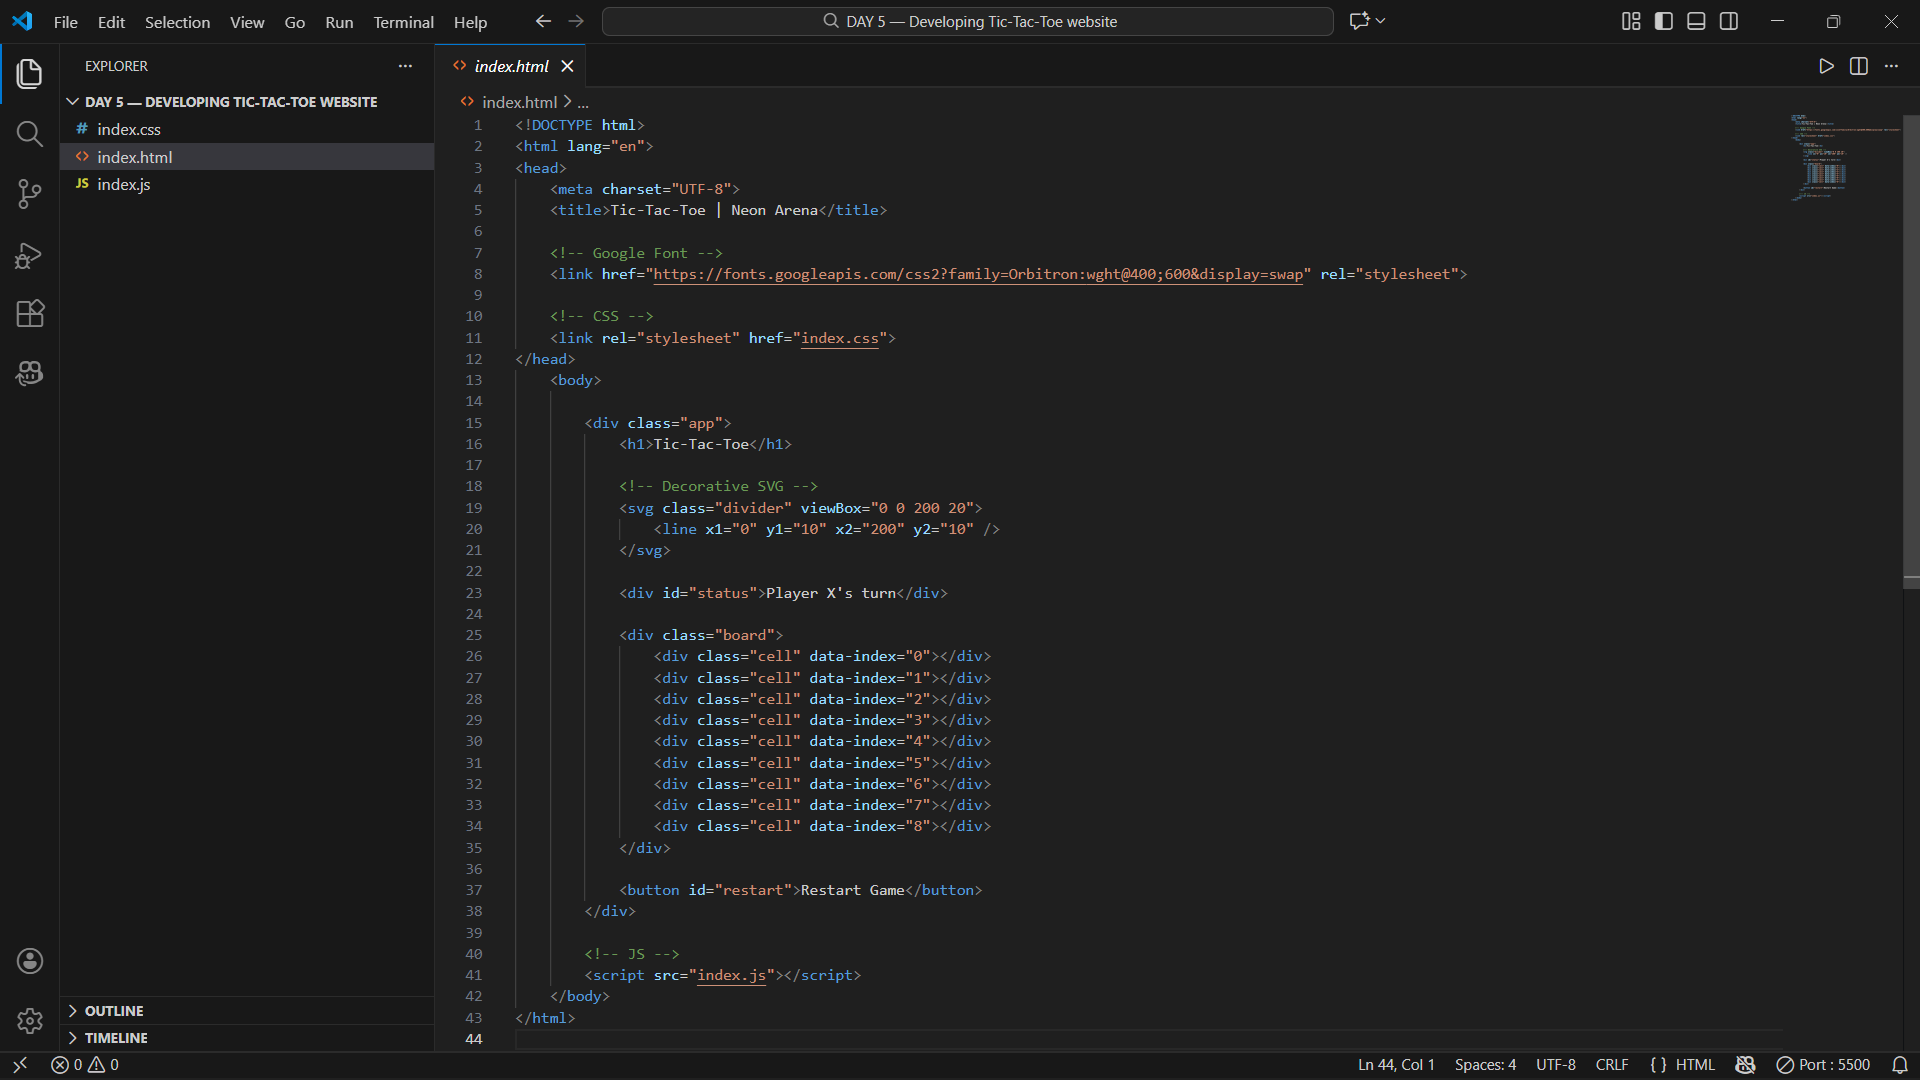
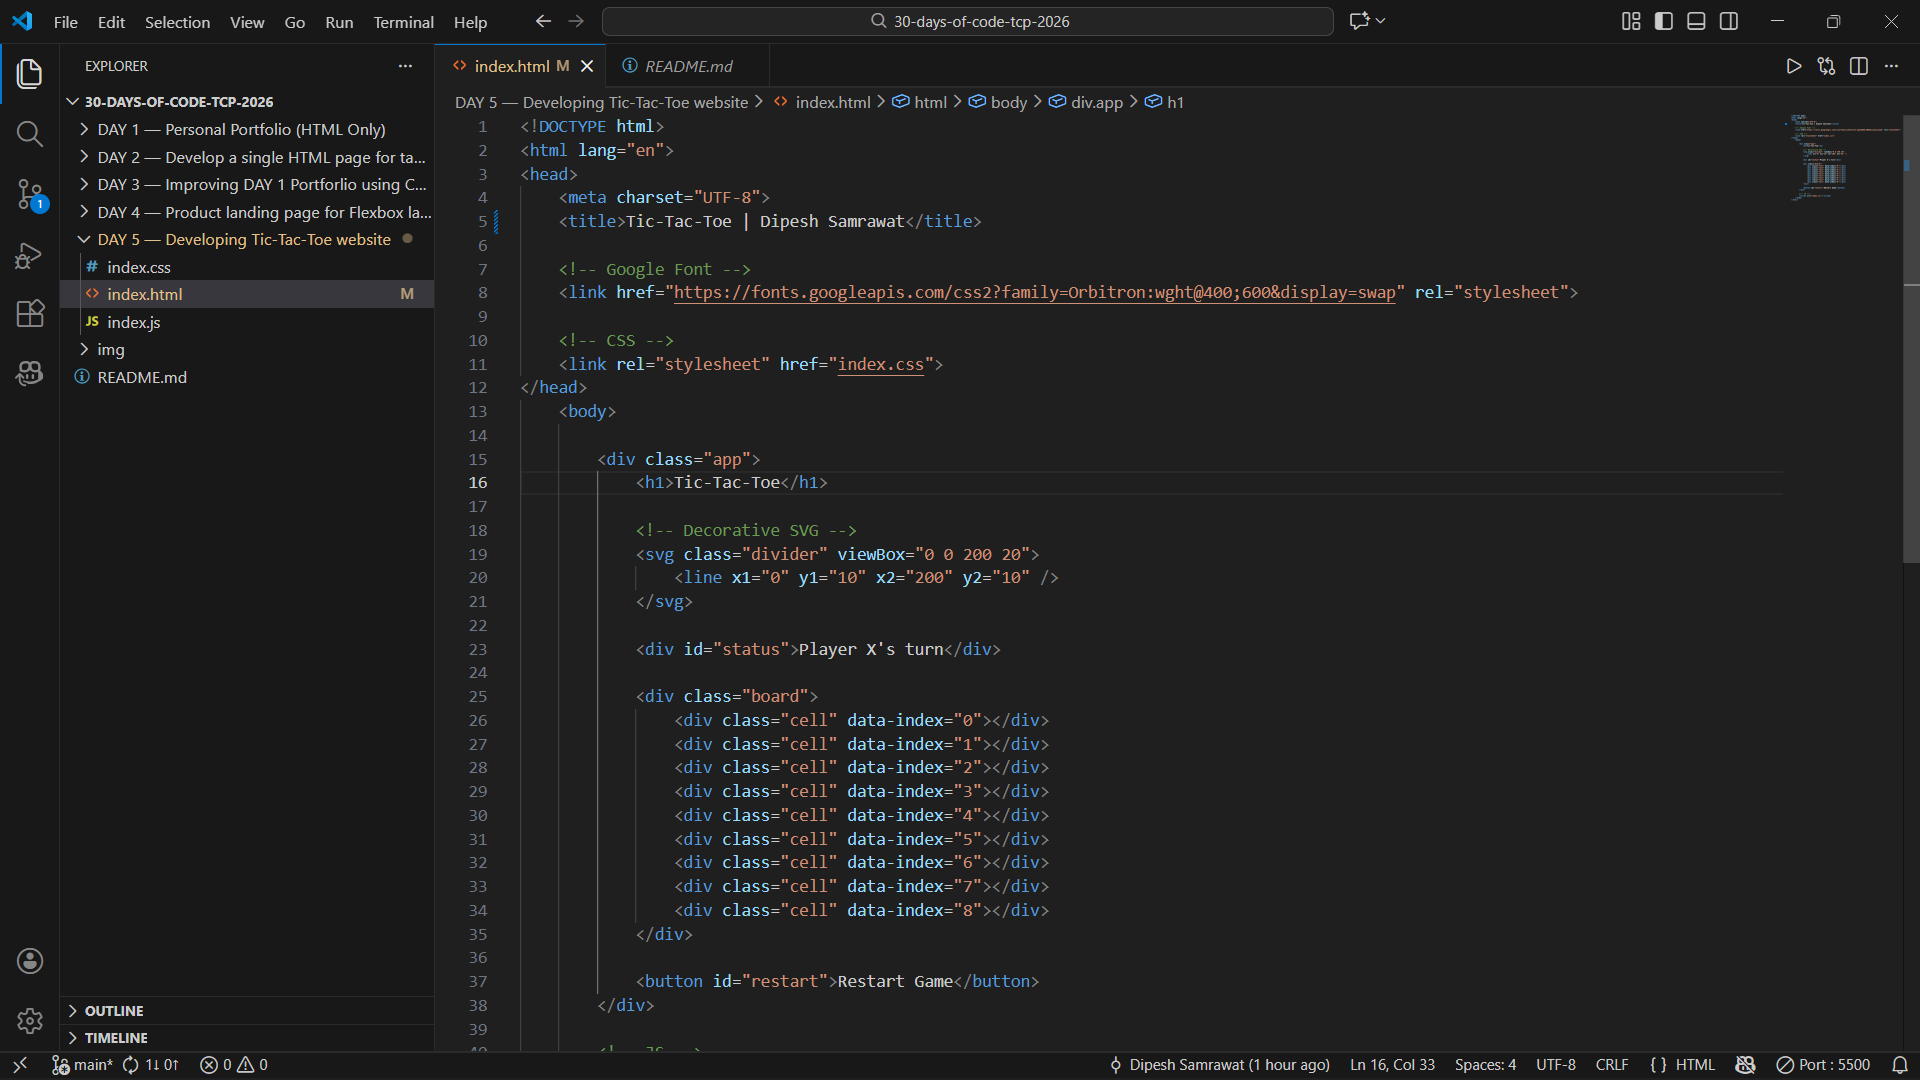
Added - DAY 5 Solution and Output

diff --git a/DAY 5 — Developing Tic-Tac-Toe website/index.html b/DAY 5 — Developing Tic-Tac-Toe website/index.html
@@ -2,7 +2,7 @@
 <html lang="en">
 <head>
     <meta charset="UTF-8">
-    <title>Tic-Tac-Toe | Neon Arena</title>
+    <title>Tic-Tac-Toe | Dipesh Samrawat</title>
 
     <!-- Google Font -->
     <link href="https://fonts.googleapis.com/css2?family=Orbitron:wght@400;600&display=swap" rel="stylesheet">
